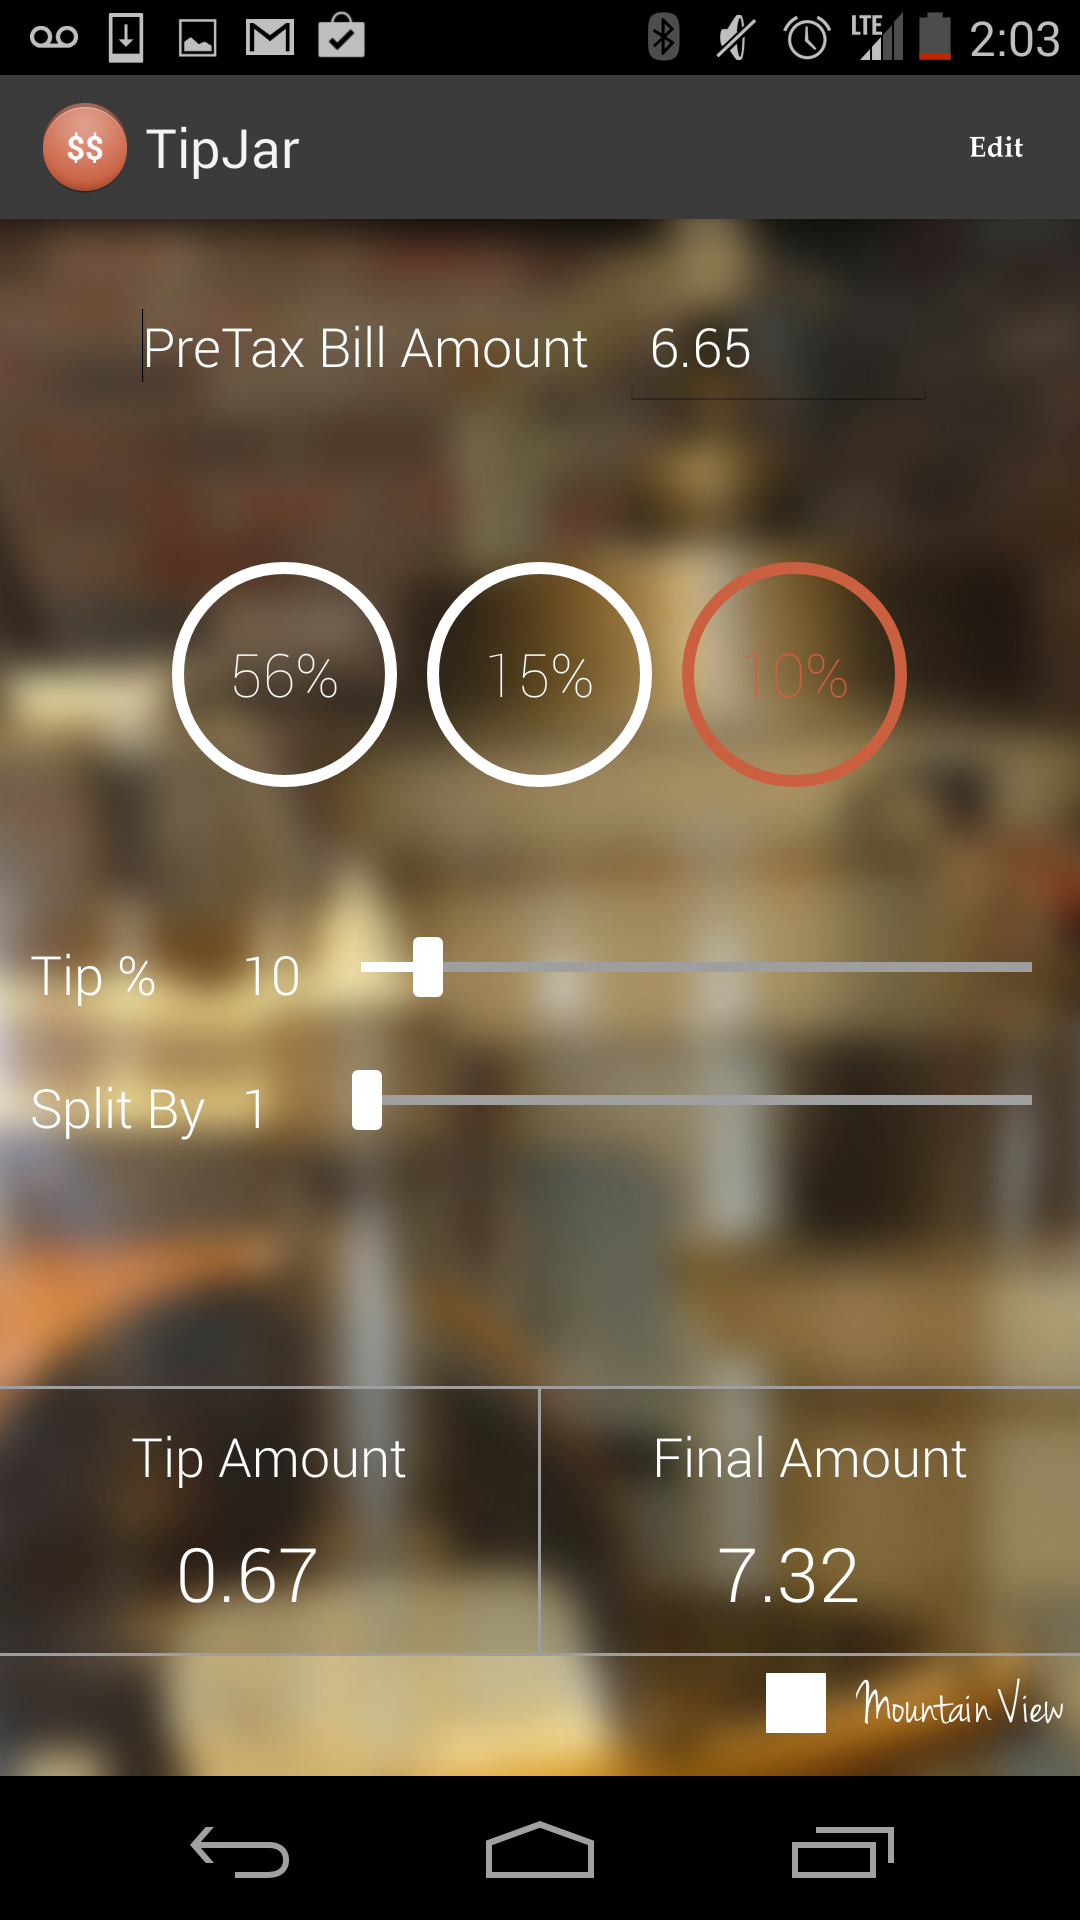
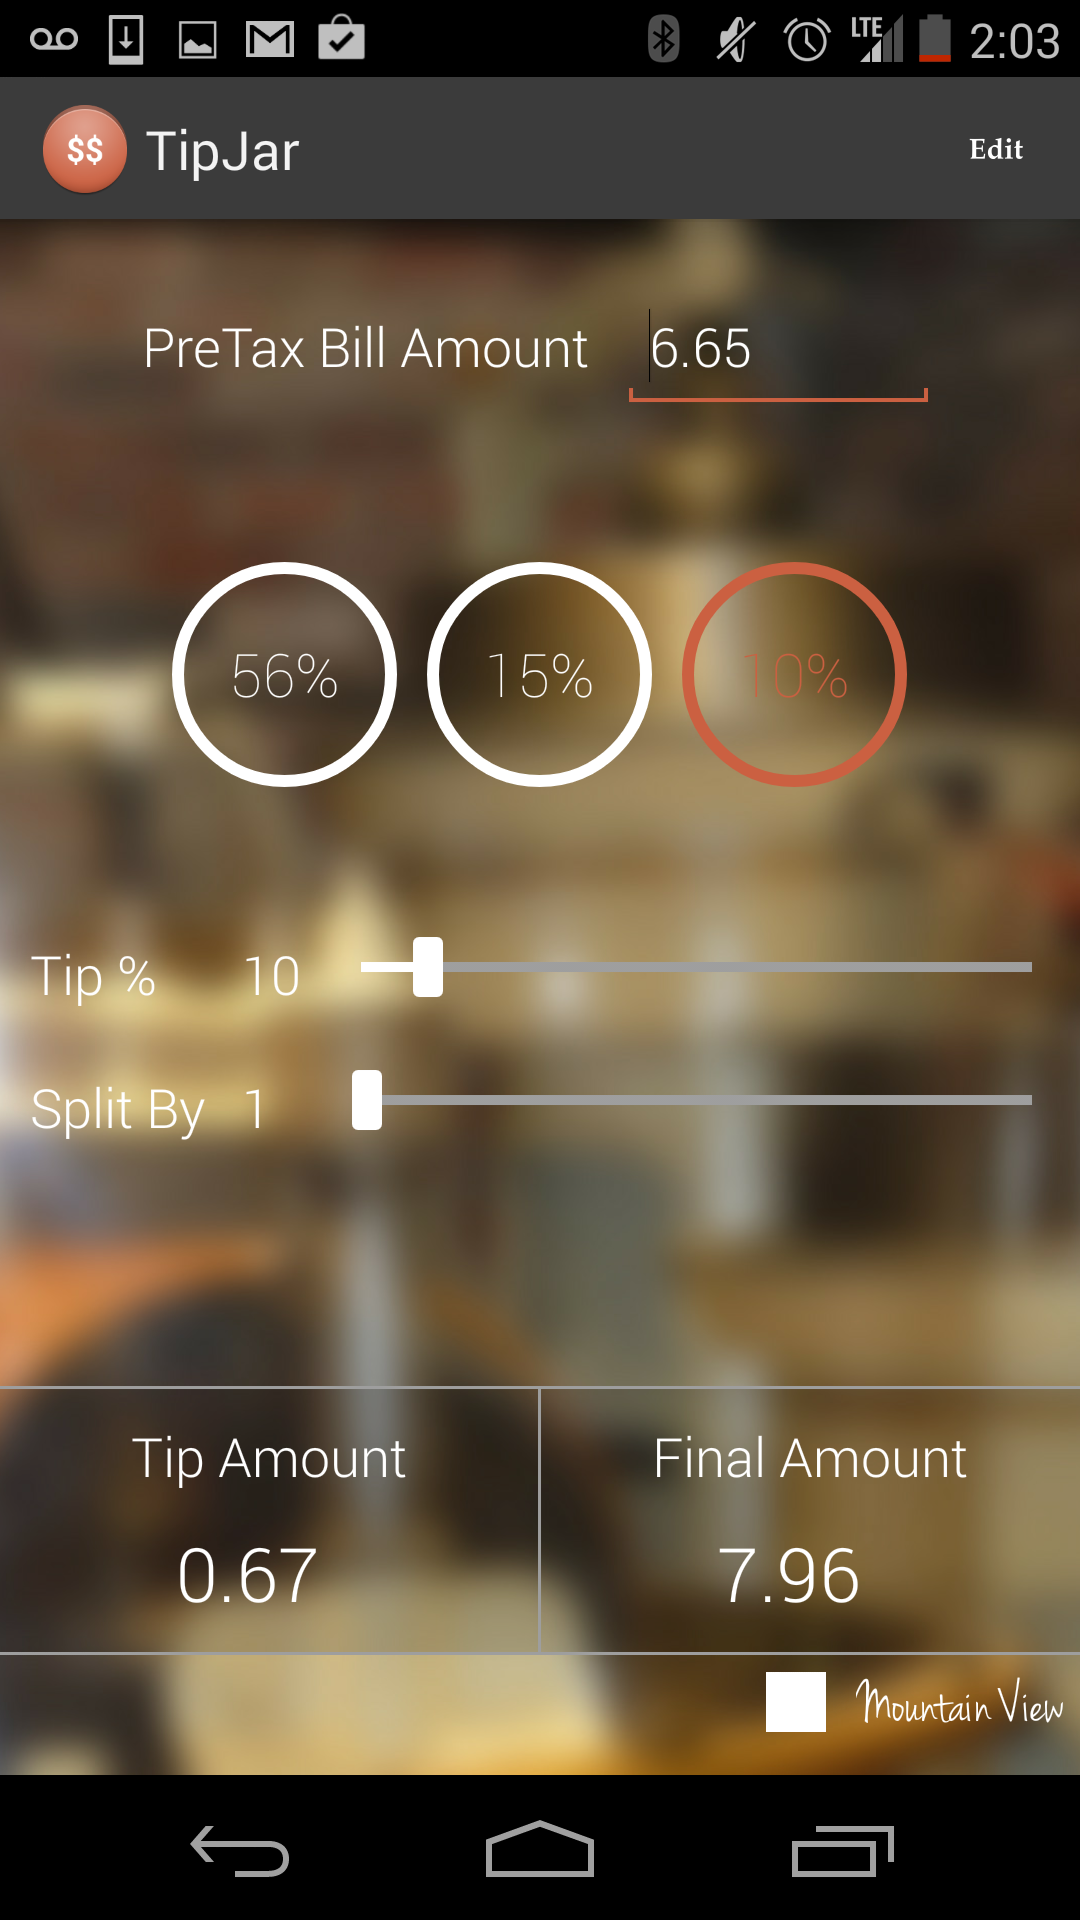
Update README.md

diff --git a/src/com/xylon/tipjar/model/Bill.java b/src/com/xylon/tipjar/model/Bill.java
@@ -64,7 +64,7 @@ public class Bill {
 			billAmt = roundOff(Double.parseDouble(billAmtStr));
 			if (billAmt > 0) {
 				tipAmt = roundOff(((billAmt * tipPercent) / 100.0) / splitBy);
-				totalAmt = (billAmt / splitBy) + tipAmt;
+				totalAmt = (billAmt / splitBy) + tipAmt + taxAmount;
 			}
 		}
 	}

diff --git a/README.md b/README.md
@@ -24,13 +24,14 @@ Total Hours = 20+ hours spent in total
 11. [x] *Additional:* Location the city of the current restaurant and find the sales tax of the city. 
  * Tax tables for various cities is stored in res/xml directory in Xmlformat.
  * Persist the preset tip amounts across launches using SharedPrefernces
- * *Use GPS* and Geocoder to determine the name of the city
- * :exclamation: *Please see attached *images* for screenshot* since geocoder requires a backend service that is not present on the emulator. Didnt find a check mark image and used fill color as an experiment
+ * **Use GPS** and Geocoder to determine the name of the city
+ * :exclamation: **Please see attached *images** for screenshot* since geocoder requires a backend service that is not present on the emulator. Didnt find a check mark image and used fill color as an experiment
 12. [x] *Additional:* Compute PreTax Amount and Tip on that based on the city
 13. [ ] *Additional:* Change shape of circles into polygons( explore canvas )
 14. [ ] *Additional:* Get the name of the restaurant and persist tips/amount and obtain a history for a restaurant
 15. [ ] *Additional:* Search tip history for a specific restaurant
 16. [ ] *Additional:* Show tipping etiquette information from itipping.com
+17. [ ] *Additional:* Settings -> Turn on GPS ON/OFF
 
 ### Exploration of Topics
 1. Customization of UI  using themes and styles.
